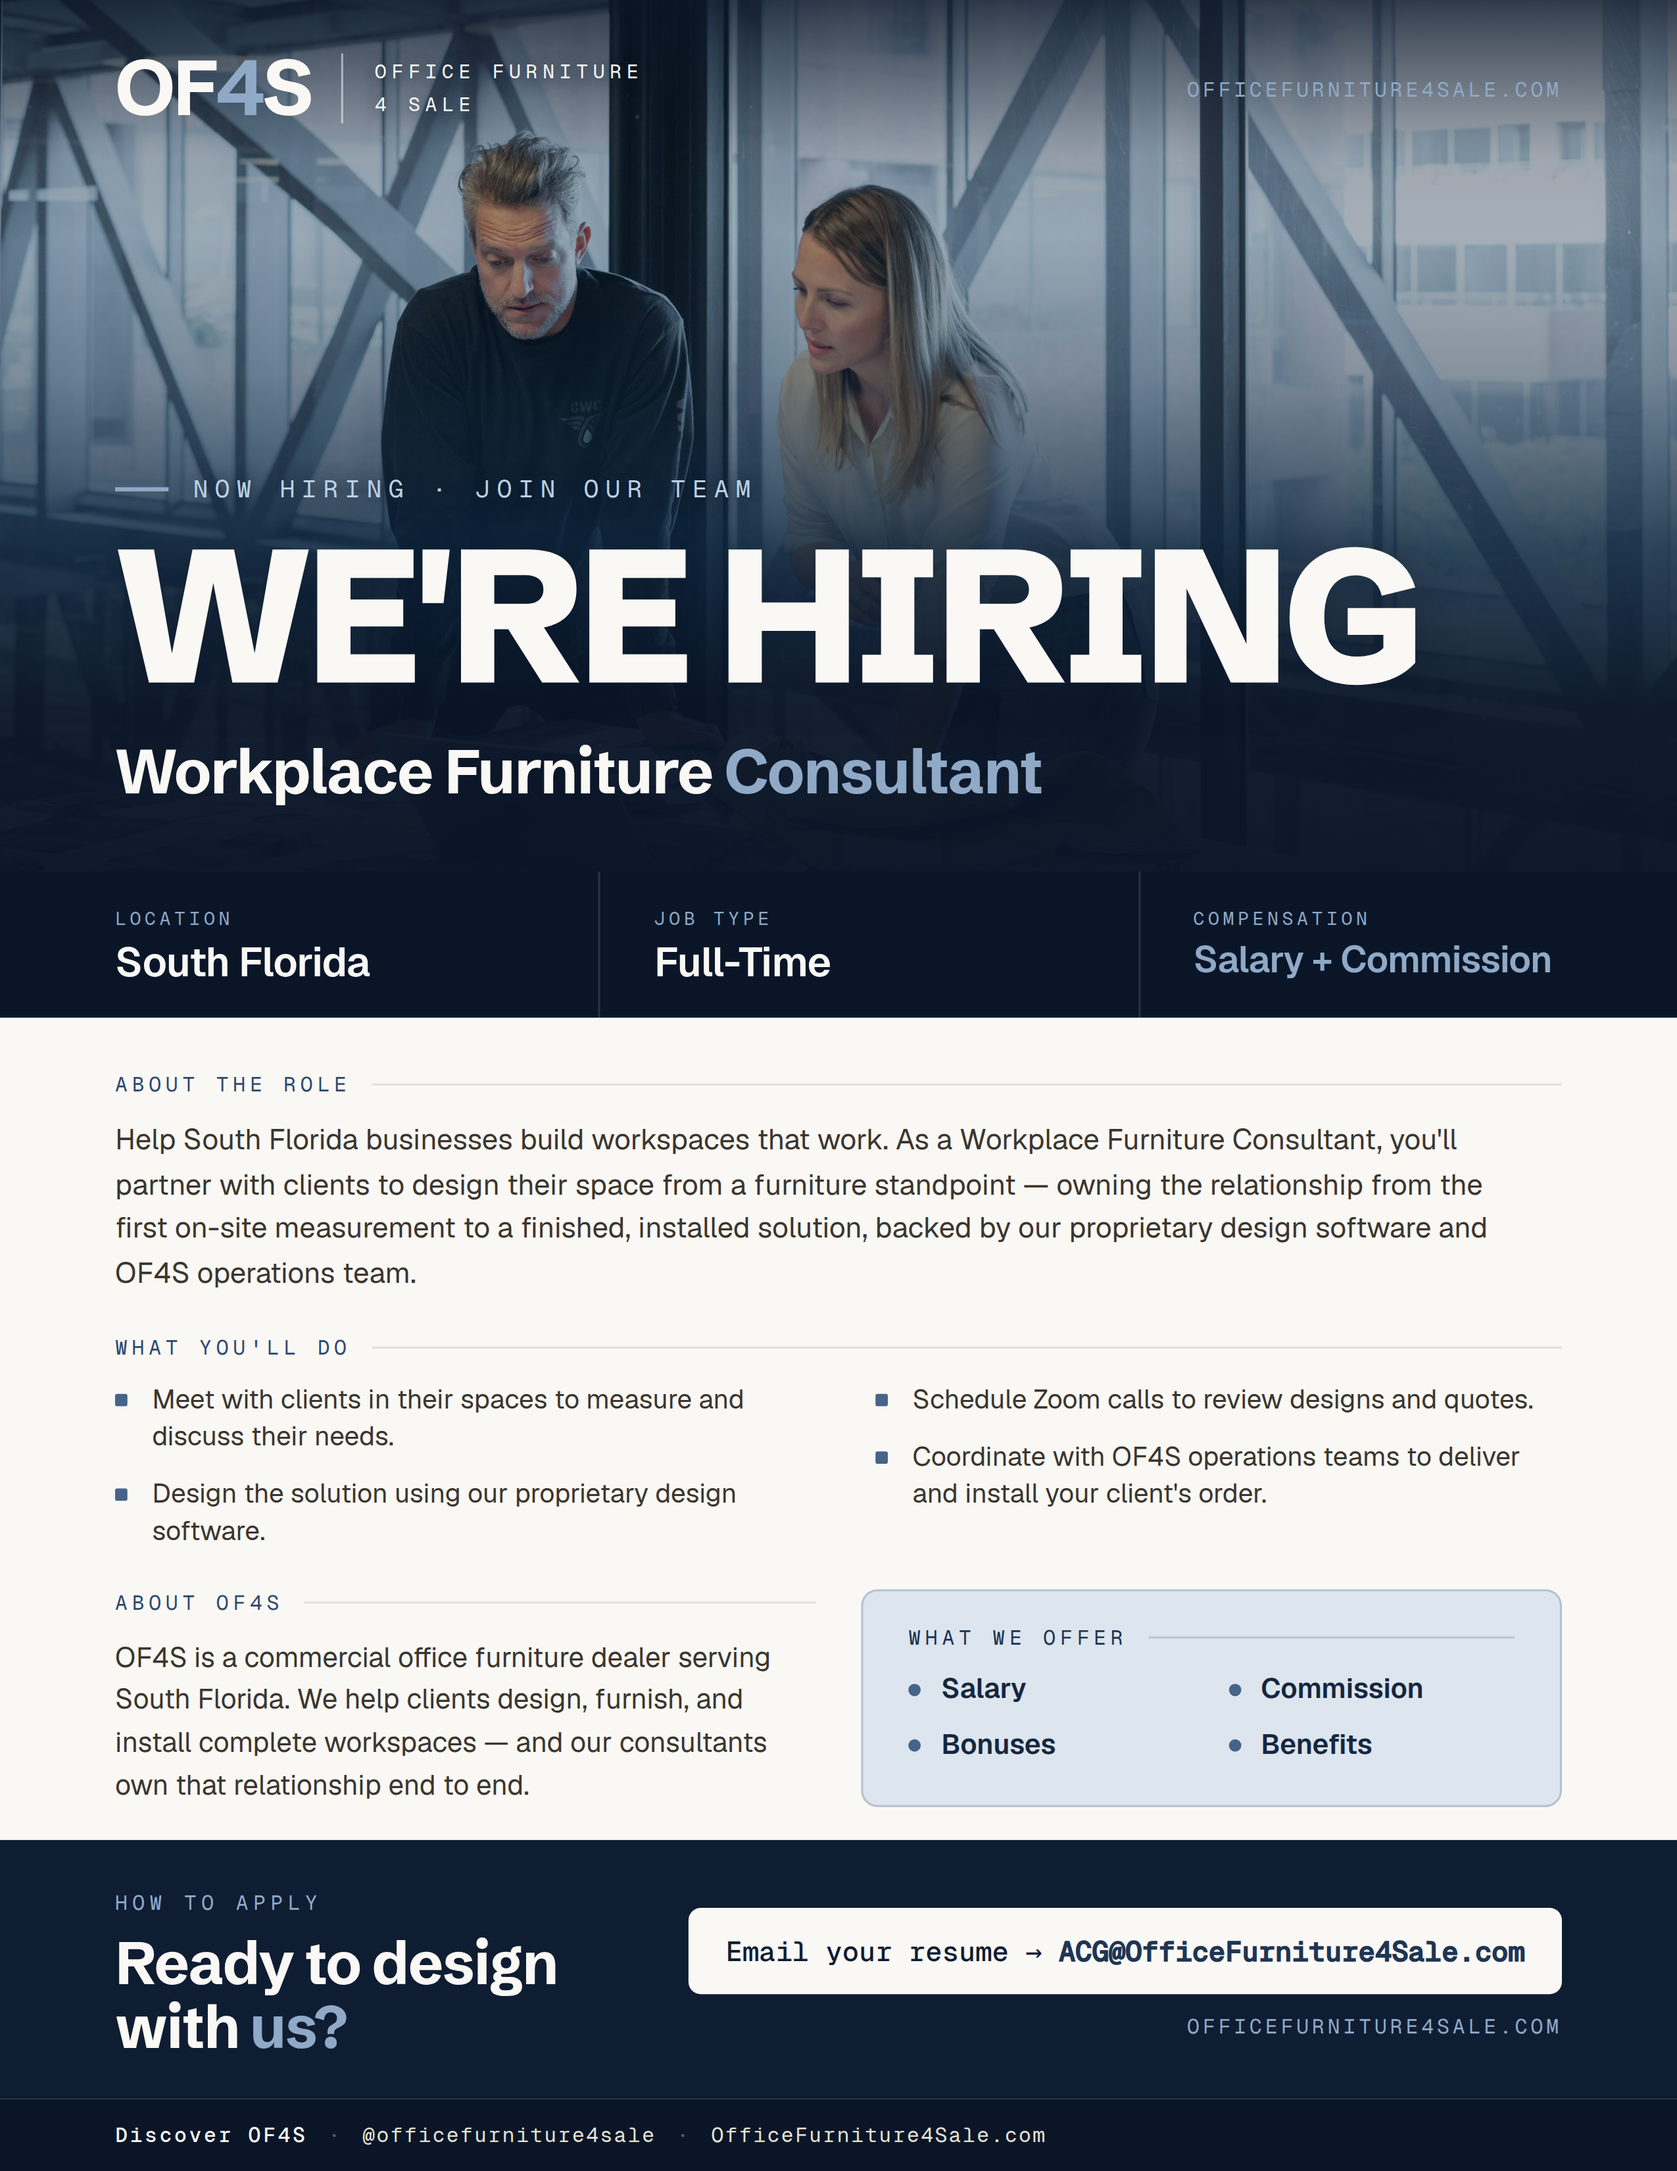
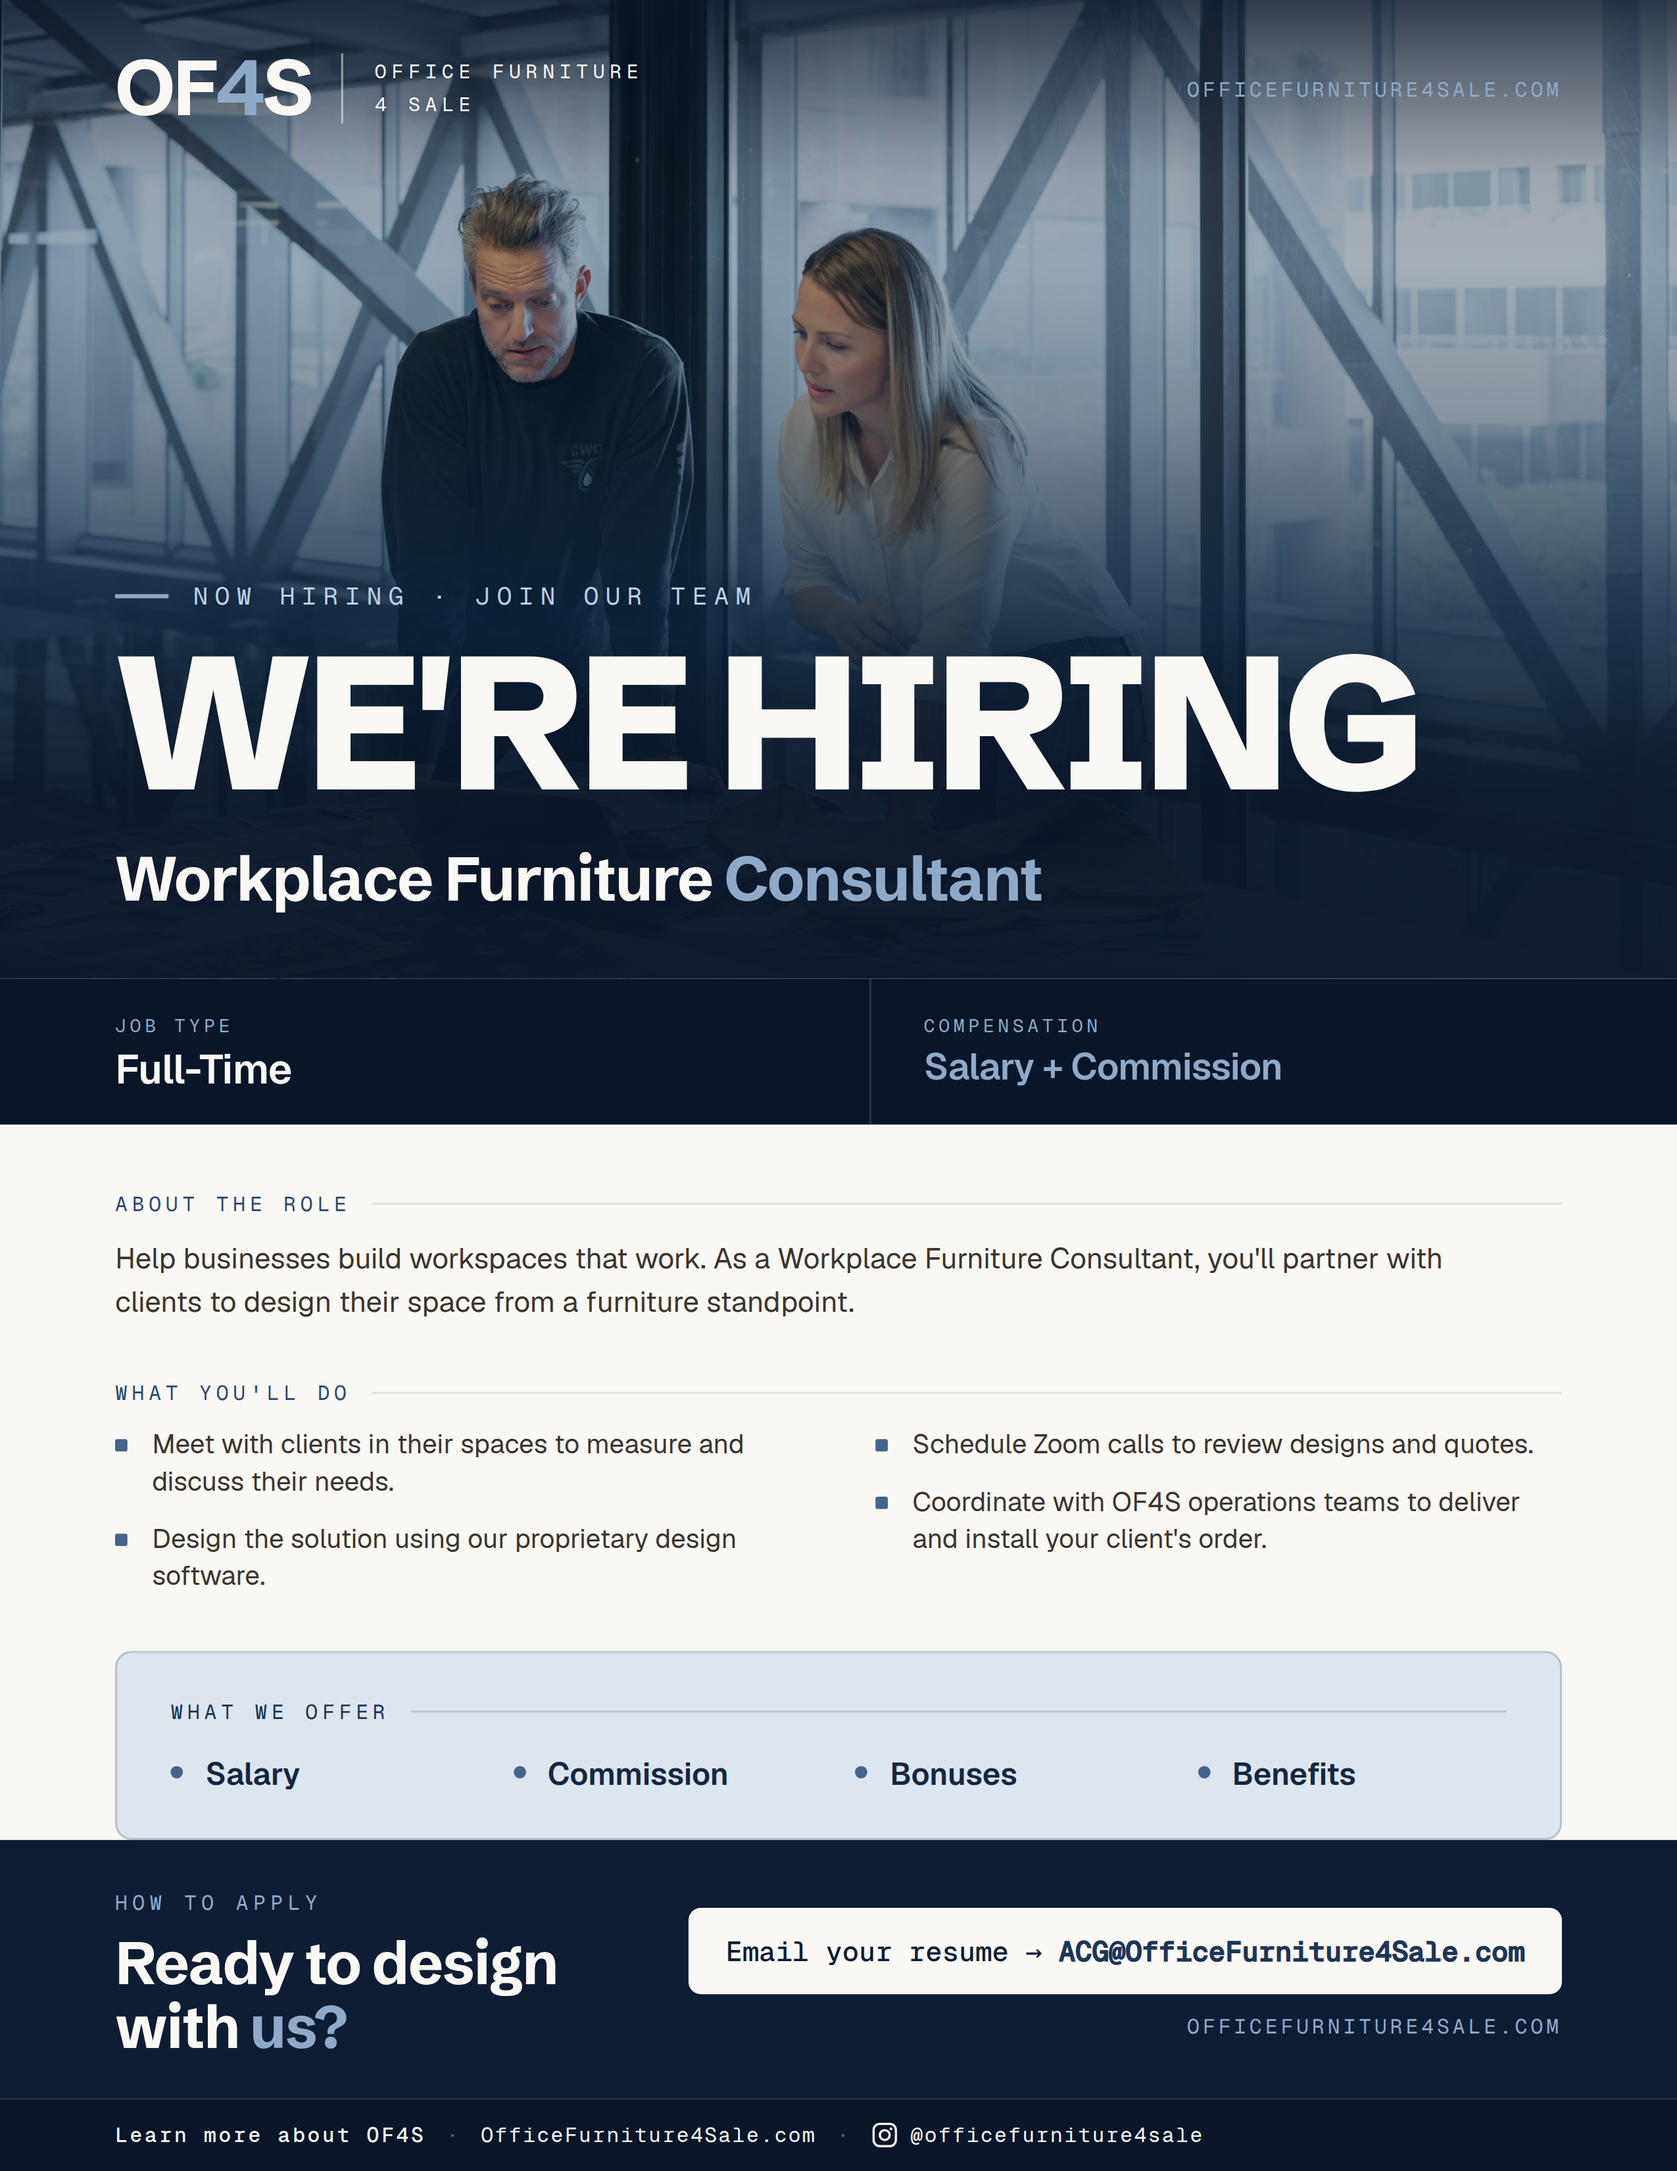
Revise Workplace Furniture Consultant flyer per feedback
- Remove the "About OF4S" block; make "What We Offer" a full-width row.
- Drop all "South Florida" references (info bar location cell removed; About
  the Role reworded).
- Trim About the Role to end at "...from a furniture standpoint."
- Footer: "Learn more about OF4S", website first, then an inline Instagram
  icon + @officefurniture4sale.
- Rebalance for the lighter content: taller hero, more body spacing, larger
  offer callout.

Claude-Session: https://claude.ai/code/session_01P6bq4yeR2UJNwaY8UGWjyB

diff --git a/projects/job-announcements/flyer-workplace-consultant.html b/projects/job-announcements/flyer-workplace-consultant.html
@@ -28,7 +28,7 @@
   }
 
   /* ============================= HERO (photo + overlay) ============================= */
-  .hero { position: relative; height: 424px; overflow: hidden; background: var(--navy-900); }
+  .hero { position: relative; height: 476px; overflow: hidden; background: var(--navy-900); }
   .hero img {
     position: absolute; inset: 0; width: 100%; height: 100%;
     object-fit: cover; object-position: 50% 40%;
@@ -92,7 +92,7 @@
   .infobar .cell.comp .v { color: var(--navy-300); font-size: 18px; }
 
   /* ============================= BODY ============================= */
-  .body { flex: 1; padding: 26px 56px 0; display: flex; flex-direction: column; gap: 18px; }
+  .body { flex: 1; padding: 32px 56px 0; display: flex; flex-direction: column; gap: 26px; }
   .section .eyebrow {
     font-family: var(--font-mono); font-size: 10px; letter-spacing: 0.22em; text-transform: uppercase;
     color: var(--navy-600); margin-bottom: 10px; display: flex; align-items: center; gap: 10px;
@@ -112,12 +112,12 @@
   .about p { font-size: 13.5px; line-height: 1.55; color: var(--stone-700); }
 
   .comp-callout { background: var(--navy-100); border: 1px solid rgba(45,74,110,0.22);
-                  border-radius: 8px; padding: 16px 22px; }
-  .comp-callout .eyebrow { color: var(--navy-700); margin-bottom: 10px; }
+                  border-radius: 8px; padding: 22px 26px; }
+  .comp-callout .eyebrow { color: var(--navy-700); margin-bottom: 14px; }
   .comp-callout .eyebrow::after { background: rgba(45,74,110,0.20); }
-  .comp-grid { display: grid; grid-template-columns: 1fr 1fr; gap: 10px 16px; }
-  .comp-grid .item { font-size: 13.5px; font-weight: 600; line-height: 1.3; color: var(--navy-800);
-                     position: relative; padding-left: 16px; }
+  .comp-grid { display: grid; grid-template-columns: repeat(4, 1fr); gap: 12px 16px; }
+  .comp-grid .item { font-size: 15px; font-weight: 600; line-height: 1.3; color: var(--navy-800);
+                     position: relative; padding-left: 17px; }
   .comp-grid .item::before { content: ""; position: absolute; left: 0; top: 6px;
                      width: 6px; height: 6px; background: var(--navy-500); border-radius: 999px; }
 
@@ -140,6 +140,9 @@
           font-family: var(--font-mono); font-size: 10px; letter-spacing: 0.08em; line-height: 1.5;
           display: flex; gap: 10px; align-items: center; }
   .note b { color: var(--paper-50); font-weight: 500; letter-spacing: 0.12em; }
+  .note .site { color: var(--paper-50); }
+  .note .ig { display: inline-flex; align-items: center; gap: 6px; color: var(--paper-50); }
+  .note .ig svg { display: block; }
   .note .dot { color: var(--navy-500); }
 </style>
 </head>
@@ -167,7 +170,6 @@
 
     <!-- INFO BAR -->
     <div class="infobar">
-      <div class="cell"><span class="l">Location</span><span class="v">South Florida</span></div>
       <div class="cell"><span class="l">Job Type</span><span class="v">Full-Time</span></div>
       <div class="cell comp"><span class="l">Compensation</span><span class="v">Salary + Commission</span></div>
     </div>
@@ -177,10 +179,8 @@
 
       <section class="section">
         <div class="eyebrow">About the Role</div>
-        <p>Help South Florida businesses build workspaces that work. As a Workplace Furniture
-        Consultant, you'll partner with clients to design their space from a furniture standpoint —
-        owning the relationship from the first on-site measurement to a finished, installed
-        solution, backed by our proprietary design software and OF4S operations team.</p>
+        <p>Help businesses build workspaces that work. As a Workplace Furniture Consultant, you'll
+        partner with clients to design their space from a furniture standpoint.</p>
       </section>
 
       <section class="section">
@@ -194,21 +194,13 @@
       </section>
 
       <section class="section">
-        <div class="duo">
-          <div class="about">
-            <div class="eyebrow">About OF4S</div>
-            <p>OF4S is a commercial office furniture dealer serving South Florida. We help clients
-            design, furnish, and install complete workspaces — and our consultants own that
-            relationship end to end.</p>
-          </div>
-          <div class="comp-callout">
-            <div class="eyebrow">What We Offer</div>
-            <div class="comp-grid">
-              <div class="item">Salary</div>
-              <div class="item">Commission</div>
-              <div class="item">Bonuses</div>
-              <div class="item">Benefits</div>
-            </div>
+        <div class="comp-callout">
+          <div class="eyebrow">What We Offer</div>
+          <div class="comp-grid">
+            <div class="item">Salary</div>
+            <div class="item">Commission</div>
+            <div class="item">Bonuses</div>
+            <div class="item">Benefits</div>
           </div>
         </div>
       </section>
@@ -227,7 +219,19 @@
       </div>
     </section>
 
-    <div class="note"><b>Discover OF4S</b><span class="dot">·</span>@officefurniture4sale<span class="dot">·</span>OfficeFurniture4Sale.com</div>
+    <div class="note">
+      <b>Learn more about OF4S</b>
+      <span class="dot">·</span>
+      <span class="site">OfficeFurniture4Sale.com</span>
+      <span class="dot">·</span>
+      <span class="ig">
+        <svg viewBox="0 0 24 24" width="13" height="13" fill="none" stroke="currentColor" stroke-width="2" aria-hidden="true">
+          <rect x="2" y="2" width="20" height="20" rx="5.5"/>
+          <circle cx="12" cy="12" r="4.4"/>
+          <circle cx="17.6" cy="6.4" r="1.3" fill="currentColor" stroke="none"/>
+        </svg>@officefurniture4sale
+      </span>
+    </div>
 
   </div>
 </body>
